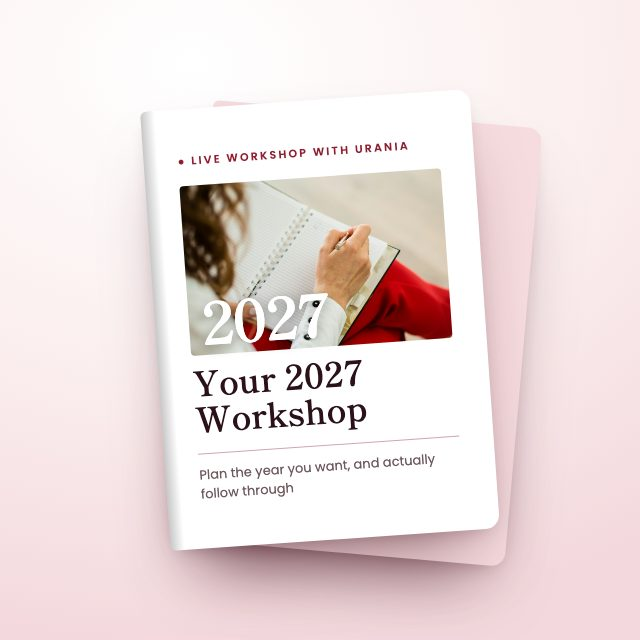
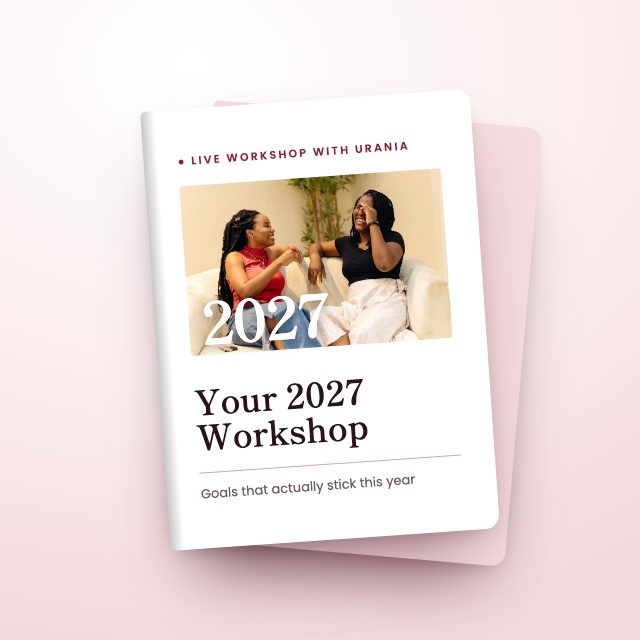
Modules follow Urania's 4 stages, goals-that-stick workshop copy, new tile photos

Changed region(s): [[0.2812, 0.25, 0.7188, 0.7812]]

diff --git a/index.html b/index.html
@@ -242,11 +242,11 @@ footer{padding:30px 20px 44px;text-align:center;font-size:13px;color:var(--mute)
       <p class="secure">Secure your spot today</p>
       <img class="bundle" src="img/bundle.jpg" alt="The program, the reprogramming session, the hypnosis sessions and the journal">
 
-      <div class="chk"><h3><span class="k">The From Survival to Softness™ 8-Week Program</span></h3><p>My flagship 4-stage program, where I take you from survival mode to a soft, calm life in just 8 weeks. You'll discover why you can't switch off, even when you finally have time to rest, why your exhaustion is your nervous system and not a mindset problem, my Slow Morning System, how to say no without guilt, how to rest without feeling like you have to earn it, and how to never slip back into survival mode. And you won't do it alone: you get 6 live coaching calls where I coach you personally, and you go through every stage together with the other women in the program. ($2,997 Value)</p></div>
+      <div class="chk"><h3><span class="k">The From Survival to Softness™ 8-Week Program</span></h3><p>My flagship 4-stage program, where I take you from survival mode to a soft, calm life in just 8 weeks. In Stage 1 you'll discover why you're stuck in doing mode and come back to your body. In Stage 2 you build your Soft Structure: a real week with boundaries and room for you. In Stage 3 you learn to receive rest, pleasure and help without guilt. And in Stage 4 you build habits that hold even on hard weeks, and leave with your own Personal Soft Life Blueprint. And you won't do it alone: you get 6 live coaching calls where I coach you personally, and you go through every stage together with the other women in the program. ($2,997 Value)</p></div>
 
       <div class="chk"><h3><span class="k">BONUS #1:</span> Your Private 1:1 Subconscious Reprogramming Session With Me</h3><p>Just you and me for 45 minutes. Your head already knows you deserve rest, but the rest of you doesn't believe it yet. Together we find the belief underneath it, like "I have to earn my rest" or "I have to do it all alone", and we reprogram it. ($397 Value)</p></div>
 
-      <div class="chk"><h3><span class="k">BONUS #2:</span> My Private Live 2027 Workshop: Plan The Year You Actually Want (And Follow Through This Time)</h3><p>In early January we meet live, and I walk you through planning 2027 the soft way. Most women start January excited, push on hard mode and quit by February. This time you set your 2027 goals live, together with me and the other women in the program, so you're not planning alone, and you leave with a year you're actually excited to follow through on. Includes my 2026 Reflection Workbook. ($297 Value)</p></div>
+      <div class="chk"><h3><span class="k">BONUS #2:</span> My Private Live 2027 Workshop: Plan The Year You Actually Want (And Follow Through This Time)</h3><p>Every January you set big goals, and by February they're gone. This year is different. In early January we meet live, and I show you how to set your 2027 goals the feminine way, so they actually stick: goals built around who you're becoming and how you want to feel, with a plan you keep even on hard weeks. You set them together with me and the other women in the program, so you're never doing it alone. ($297 Value)</p></div>
 
       <div class="chk"><h3><span class="k">BONUS #3:</span> ALL 4 Soft Life Hypnosis Sessions + My Morning &amp; Evening Affirmations</h3><p>My 4 guided hypnosis sessions, one for every stage, plus my morning and evening affirmations. They work on the part of you that logic can't reach: the guilt when you sit down, the racing thoughts at night, the need to control everything, people-pleasing and so much more. My meditations have over 1 million views on YouTube, and these are exclusive only for the women in this program. ($497 Value)</p></div>
 
